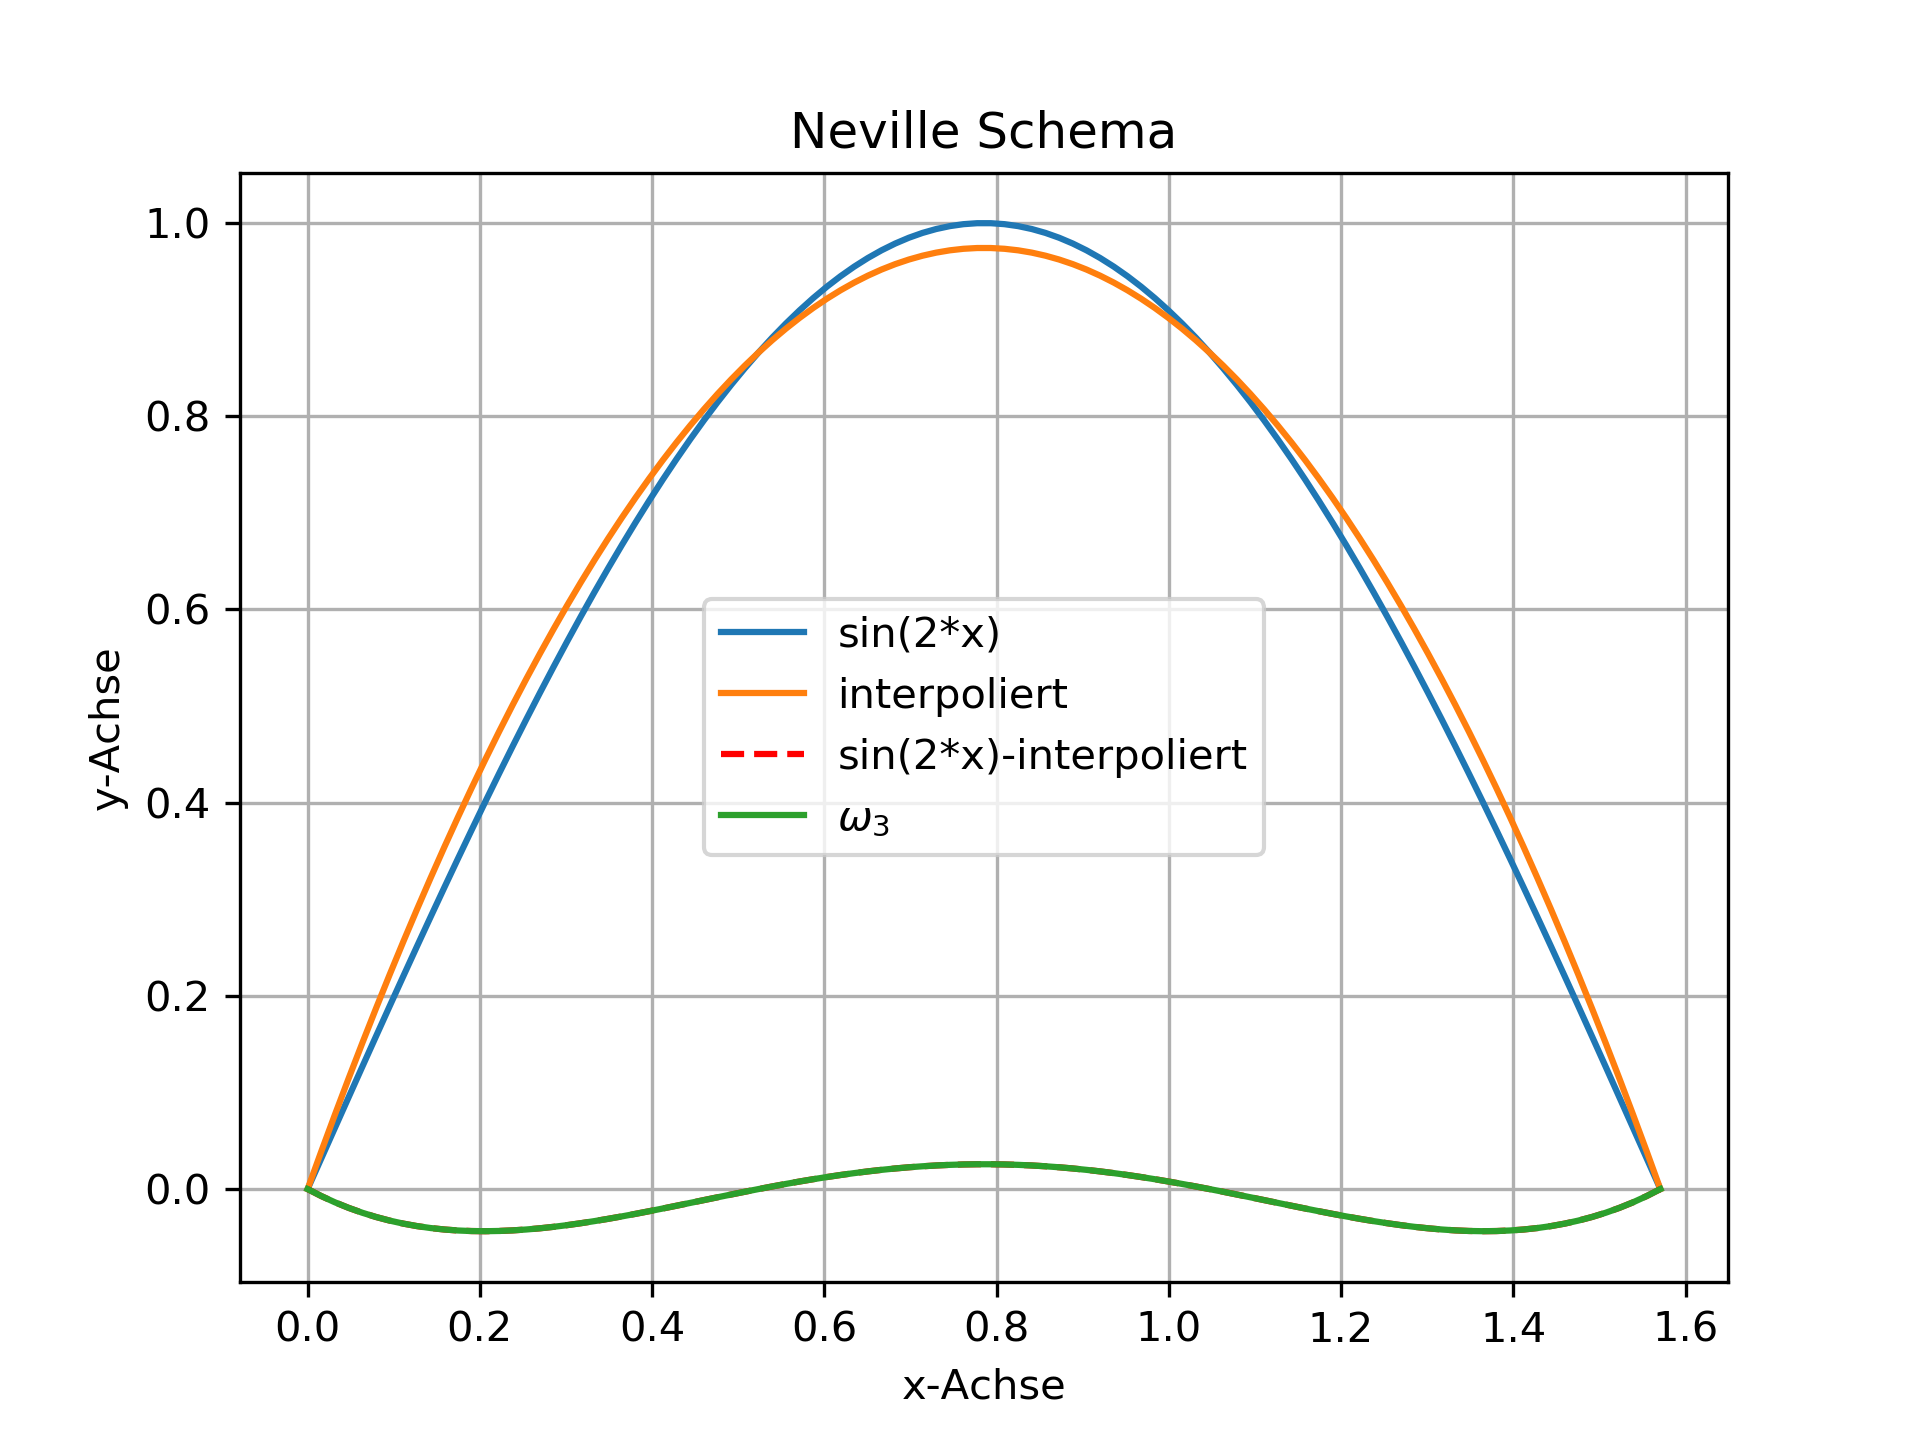
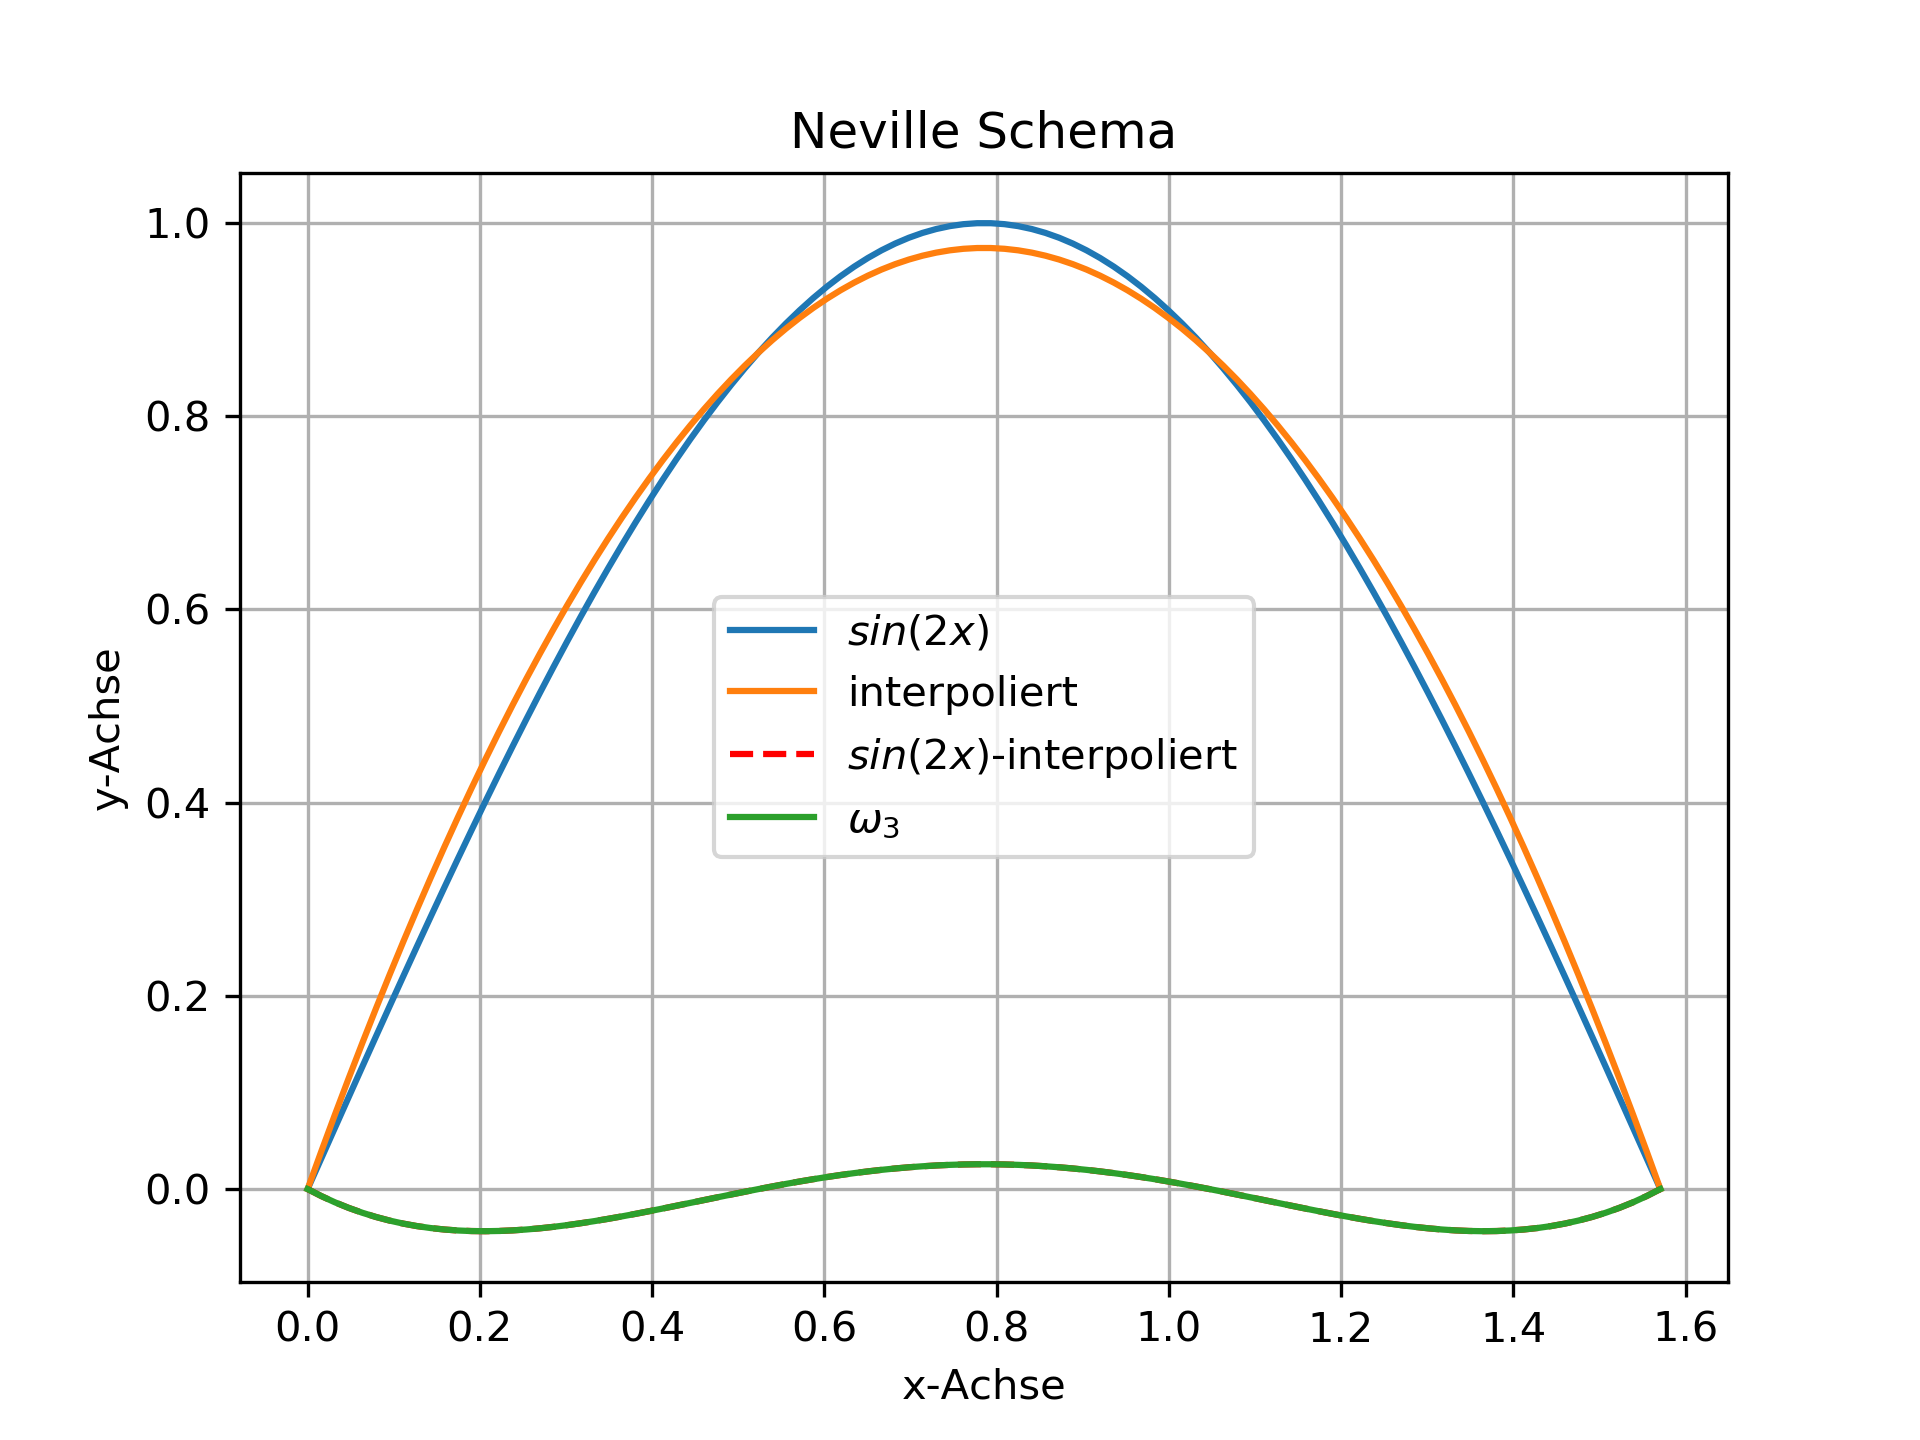
improvements

Changed region(s): [[0.3438, 0.4062, 0.6562, 0.5938], [0.625, 0.4062, 0.6562, 0.4375]]

diff --git a/Programmieruebung1/solution.py b/Programmieruebung1/solution.py
@@ -68,6 +68,9 @@ class Neville:
             output += "\n"
         return output
 
+    def __str__(self):
+        return self.piktable()
+
     def plot(self):
         startx, endx = 0.00001, pi/2
         x = np.linspace(startx, endx, 100)
@@ -96,8 +99,8 @@ class Neville:
         plt.grid()
 
         # Plot  anzeigen
-        plt.show()
-        # plt.savefig(self.func_name+".png", dpi=300)
+        # plt.show()
+        plt.savefig(self.func_name+".png", dpi=300)
 
 
 def main():
@@ -109,10 +112,9 @@ def main():
     px = [radians(45), np.sin, x_n]
 
     sin_interpol = Neville(px)
-    print(sin_interpol.pik)
-    # print(sin_interpol.piktable())
+    # print(sin_interpol)
     print("Result: ", sin_interpol.compute(), "\n")
-    print(sin_interpol.piktable())
+    print(sin_interpol)
     # sin_interpol.plot()
 
     # create a scaled version of the sin() function
@@ -120,7 +122,7 @@ def main():
     for i in [2, 4, 8]:
         px = [radians(45), scaled_sin(i), x_n]
         sin_interpol_b = Neville(px)
-        sin_interpol_b.func_name = f"sin({i}*x)"
+        sin_interpol_b.func_name = f"sin({i}x)"
         print(sin_interpol_b.compute())
         # sin_interpol_b.plot()
 
